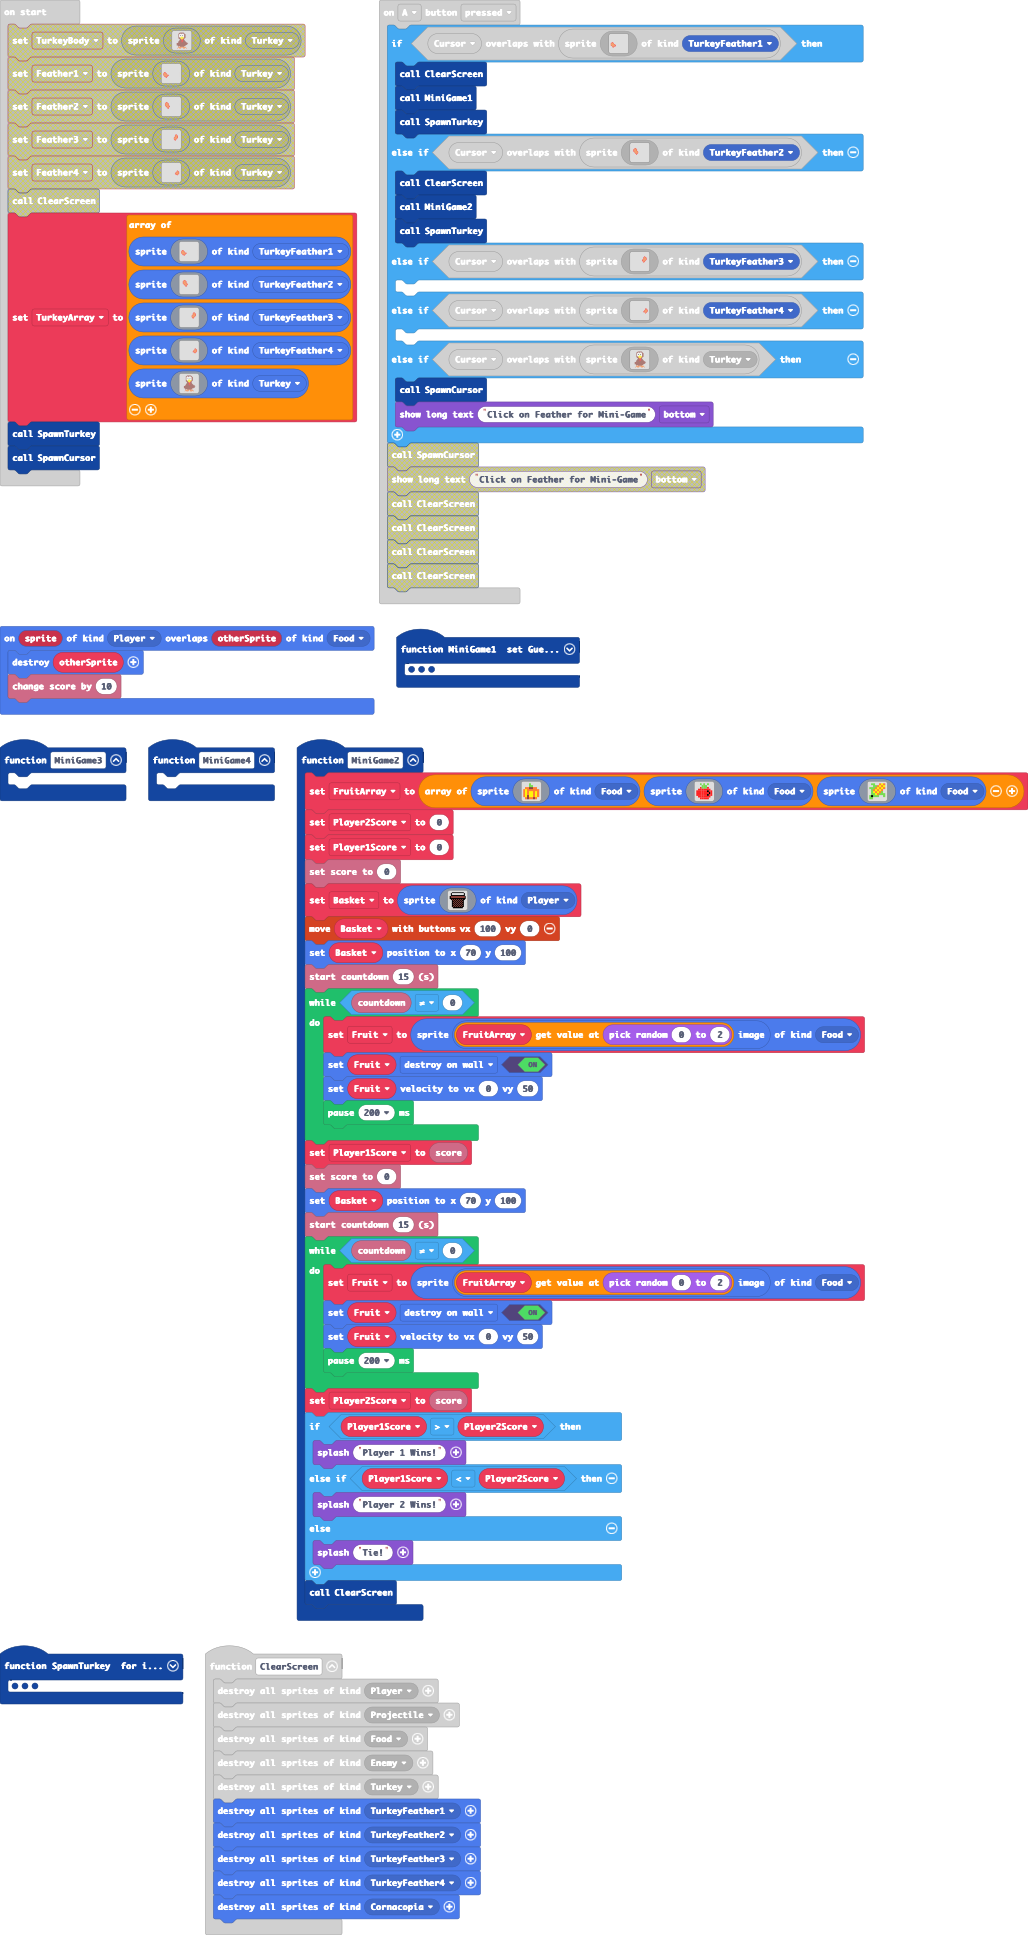
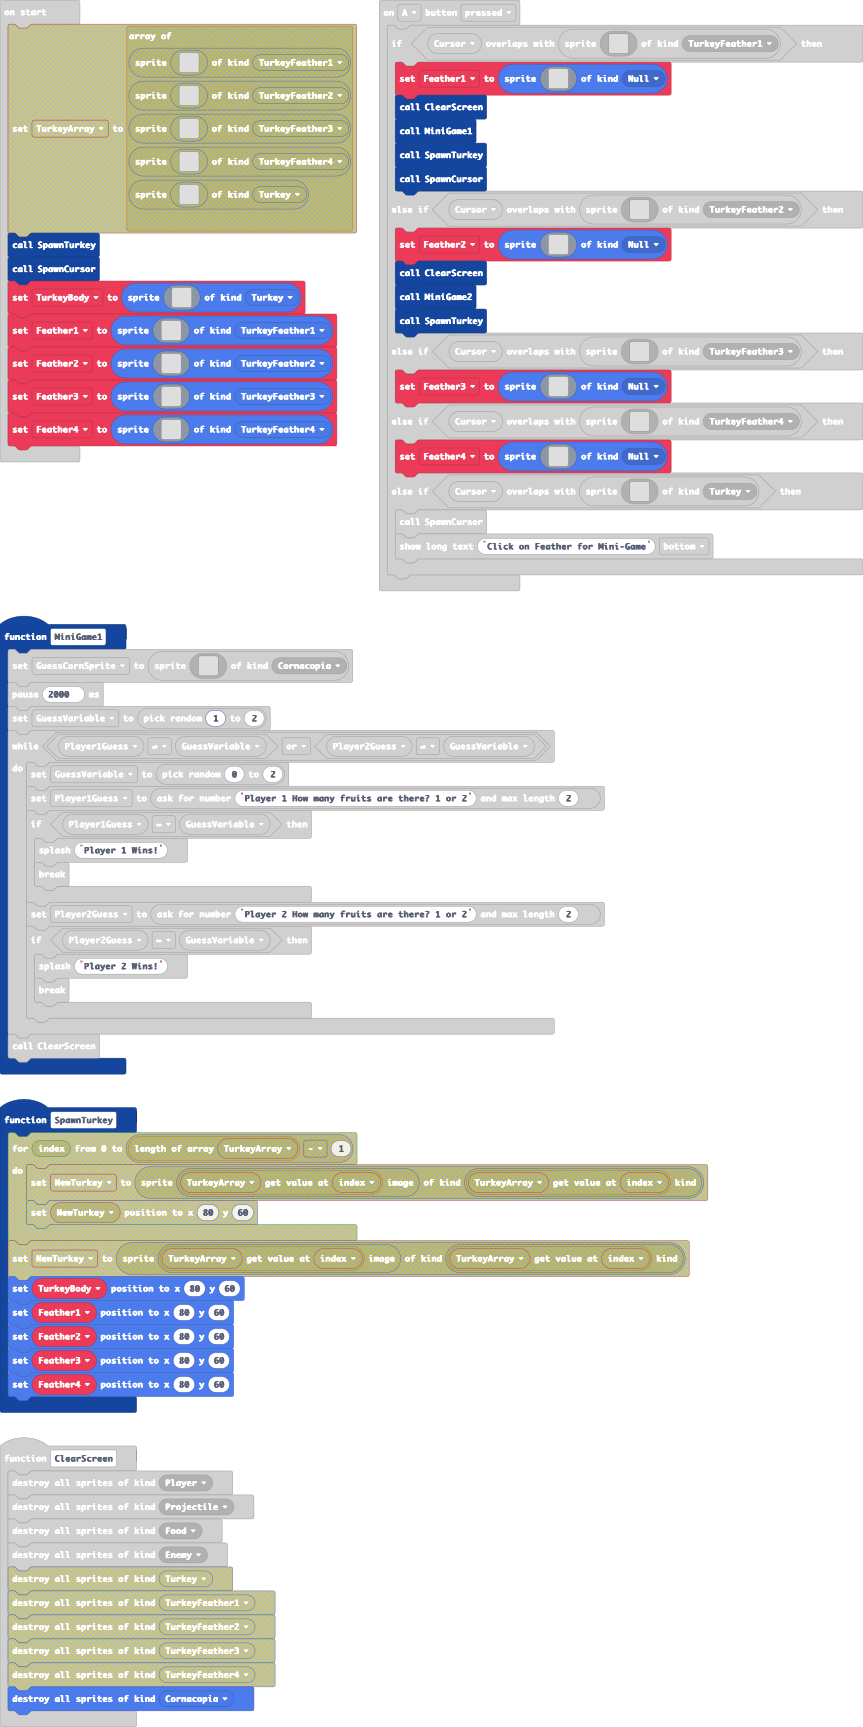
bug fixes

diff --git a/main.ts b/main.ts
@@ -5,26 +5,99 @@ namespace SpriteKind {
     export const TurkeyFeather2 = SpriteKind.create()
     export const TurkeyFeather3 = SpriteKind.create()
     export const TurkeyFeather4 = SpriteKind.create()
+    export const Null = SpriteKind.create()
 }
 function SpawnTurkey () {
-    for (let index = 0; index <= TurkeyArray.length - 1; index++) {
-        NewTurkey = sprites.create(TurkeyArray[index].image, TurkeyArray[index].kind())
-        NewTurkey.setPosition(80, 60)
-    }
+    TurkeyBody.setPosition(80, 60)
+    Feather1.setPosition(80, 60)
+    Feather2.setPosition(80, 60)
+    Feather3.setPosition(80, 60)
+    Feather4.setPosition(80, 60)
 }
 controller.A.onEvent(ControllerButtonEvent.Pressed, function () {
     if (Cursor.overlapsWith(sprites.create(assets.image`myImage0`, SpriteKind.TurkeyFeather1))) {
+        Feather1 = sprites.create(img`
+            . . . . . . . . . . . . . . . . 
+            . . . . . . . . . . . . . . . . 
+            . . . . . . . . . . . . . . . . 
+            . . . . . . . . . . . . . . . . 
+            . . . . . . . . . . . . . . . . 
+            . . . . . . . . . . . . . . . . 
+            . . . . . . . . . . . . . . . . 
+            . . . . . . . . . . . . . . . . 
+            . . . . . . . . . . . . . . . . 
+            . . . . . . . . . . . . . . . . 
+            . . . . . . . . . . . . . . . . 
+            . . . . . . . . . . . . . . . . 
+            . . . . . . . . . . . . . . . . 
+            . . . . . . . . . . . . . . . . 
+            . . . . . . . . . . . . . . . . 
+            . . . . . . . . . . . . . . . . 
+            `, SpriteKind.Null)
         ClearScreen()
         MiniGame1()
         SpawnTurkey()
+        SpawnCursor()
     } else if (Cursor.overlapsWith(sprites.create(assets.image`myImage1`, SpriteKind.TurkeyFeather2))) {
+        Feather2 = sprites.create(img`
+            . . . . . . . . . . . . . . . . 
+            . . . . . . . . . . . . . . . . 
+            . . . . . . . . . . . . . . . . 
+            . . . . . . . . . . . . . . . . 
+            . . . . . . . . . . . . . . . . 
+            . . . . . . . . . . . . . . . . 
+            . . . . . . . . . . . . . . . . 
+            . . . . . . . . . . . . . . . . 
+            . . . . . . . . . . . . . . . . 
+            . . . . . . . . . . . . . . . . 
+            . . . . . . . . . . . . . . . . 
+            . . . . . . . . . . . . . . . . 
+            . . . . . . . . . . . . . . . . 
+            . . . . . . . . . . . . . . . . 
+            . . . . . . . . . . . . . . . . 
+            . . . . . . . . . . . . . . . . 
+            `, SpriteKind.Null)
         ClearScreen()
         MiniGame2()
         SpawnTurkey()
     } else if (Cursor.overlapsWith(sprites.create(assets.image`myImage2`, SpriteKind.TurkeyFeather3))) {
-    	
+        Feather3 = sprites.create(img`
+            . . . . . . . . . . . . . . . . 
+            . . . . . . . . . . . . . . . . 
+            . . . . . . . . . . . . . . . . 
+            . . . . . . . . . . . . . . . . 
+            . . . . . . . . . . . . . . . . 
+            . . . . . . . . . . . . . . . . 
+            . . . . . . . . . . . . . . . . 
+            . . . . . . . . . . . . . . . . 
+            . . . . . . . . . . . . . . . . 
+            . . . . . . . . . . . . . . . . 
+            . . . . . . . . . . . . . . . . 
+            . . . . . . . . . . . . . . . . 
+            . . . . . . . . . . . . . . . . 
+            . . . . . . . . . . . . . . . . 
+            . . . . . . . . . . . . . . . . 
+            . . . . . . . . . . . . . . . . 
+            `, SpriteKind.Null)
     } else if (Cursor.overlapsWith(sprites.create(assets.image`myImage3`, SpriteKind.TurkeyFeather4))) {
-    	
+        Feather4 = sprites.create(img`
+            . . . . . . . . . . . . . . . . 
+            . . . . . . . . . . . . . . . . 
+            . . . . . . . . . . . . . . . . 
+            . . . . . . . . . . . . . . . . 
+            . . . . . . . . . . . . . . . . 
+            . . . . . . . . . . . . . . . . 
+            . . . . . . . . . . . . . . . . 
+            . . . . . . . . . . . . . . . . 
+            . . . . . . . . . . . . . . . . 
+            . . . . . . . . . . . . . . . . 
+            . . . . . . . . . . . . . . . . 
+            . . . . . . . . . . . . . . . . 
+            . . . . . . . . . . . . . . . . 
+            . . . . . . . . . . . . . . . . 
+            . . . . . . . . . . . . . . . . 
+            . . . . . . . . . . . . . . . . 
+            `, SpriteKind.Null)
     } else if (Cursor.overlapsWith(sprites.create(assets.image`myImage`, SpriteKind.Turkey))) {
         SpawnCursor()
         game.showLongText("Click on Feather for Mini-Game", DialogLayout.Bottom)
@@ -144,7 +217,7 @@ function MiniGame1 () {
         .............................................4444444444444444.................
         `, SpriteKind.Cornacopia)
     pause(2000)
-    GuessVariable = randint(0, 2)
+    GuessVariable = randint(1, 2)
     while (Player1Guess != GuessVariable || Player2Guess != GuessVariable) {
         GuessVariable = randint(0, 2)
         Player1Guess = game.askForNumber("Player 1 How many fruits are there? 1 or 2", 2)
@@ -252,11 +325,6 @@ function ClearScreen () {
     sprites.destroyAllSpritesOfKind(SpriteKind.Projectile)
     sprites.destroyAllSpritesOfKind(SpriteKind.Food)
     sprites.destroyAllSpritesOfKind(SpriteKind.Enemy)
-    sprites.destroyAllSpritesOfKind(SpriteKind.Turkey)
-    sprites.destroyAllSpritesOfKind(SpriteKind.TurkeyFeather1)
-    sprites.destroyAllSpritesOfKind(SpriteKind.TurkeyFeather2)
-    sprites.destroyAllSpritesOfKind(SpriteKind.TurkeyFeather3)
-    sprites.destroyAllSpritesOfKind(SpriteKind.TurkeyFeather4)
     sprites.destroyAllSpritesOfKind(SpriteKind.Cornacopia)
 }
 let Fruit: Sprite = null
@@ -269,14 +337,15 @@ let Player1Guess = 0
 let GuessVariable = 0
 let GuessCornSprite: Sprite = null
 let Cursor: Sprite = null
-let NewTurkey: Sprite = null
-let TurkeyArray: Sprite[] = []
-TurkeyArray = [
-sprites.create(assets.image`myImage0`, SpriteKind.TurkeyFeather1),
-sprites.create(assets.image`myImage1`, SpriteKind.TurkeyFeather2),
-sprites.create(assets.image`myImage2`, SpriteKind.TurkeyFeather3),
-sprites.create(assets.image`myImage3`, SpriteKind.TurkeyFeather4),
-sprites.create(assets.image`myImage`, SpriteKind.Turkey)
-]
+let Feather4: Sprite = null
+let Feather3: Sprite = null
+let Feather2: Sprite = null
+let Feather1: Sprite = null
+let TurkeyBody: Sprite = null
+TurkeyBody = sprites.create(assets.image`myImage`, SpriteKind.Turkey)
+Feather1 = sprites.create(assets.image`myImage0`, SpriteKind.TurkeyFeather1)
+Feather2 = sprites.create(assets.image`myImage1`, SpriteKind.TurkeyFeather2)
+Feather3 = sprites.create(assets.image`myImage2`, SpriteKind.TurkeyFeather3)
+Feather4 = sprites.create(assets.image`myImage3`, SpriteKind.TurkeyFeather4)
 SpawnTurkey()
 SpawnCursor()
